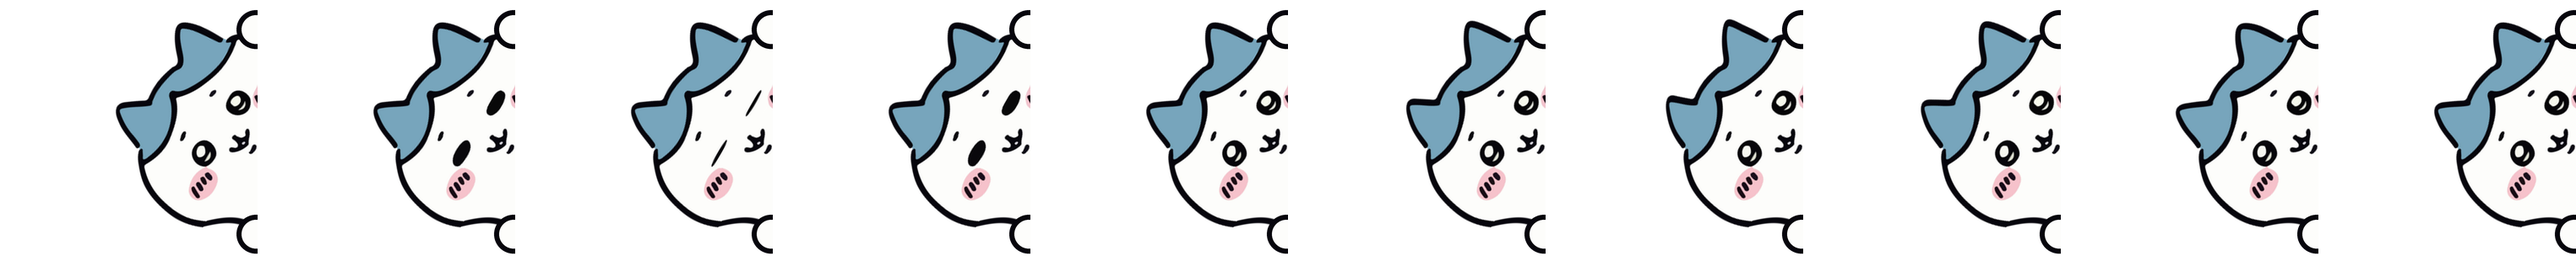
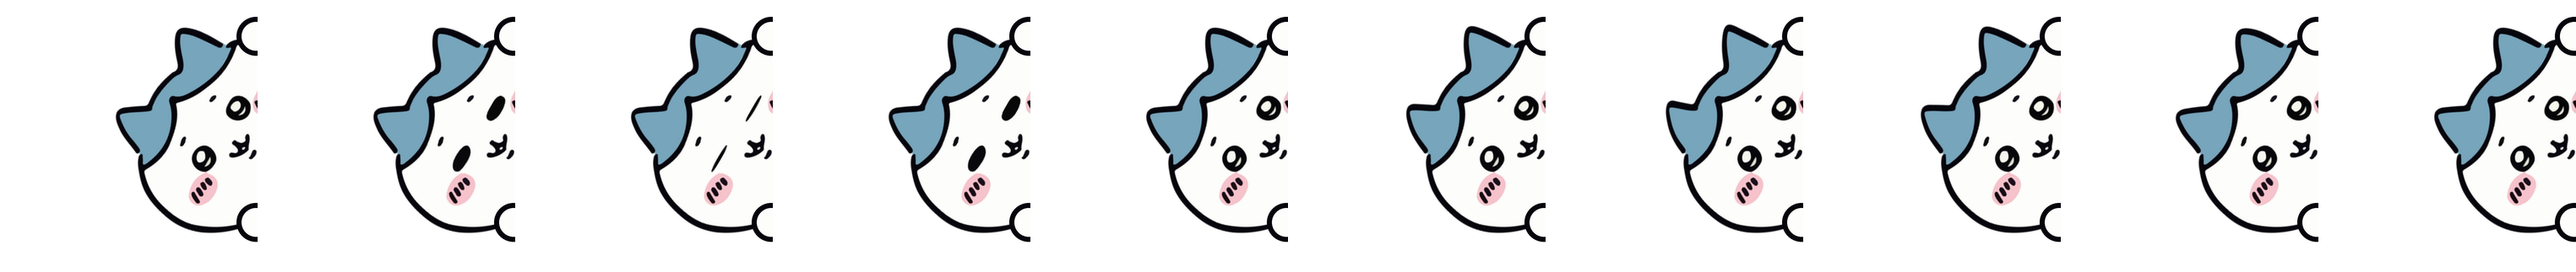
Draw the chin of Hachiware's hiding picture as the round head it is, and join a drawn stroke to the real outline without a corner
Claude-Session: https://claude.ai/code/session_01TnCzCTyCmno8xW8Zhxkbmu

diff --git a/scripts/peek_art.py b/scripts/peek_art.py
@@ -64,7 +64,7 @@ def _hermite(y, y0, c0, s0, y1, c1, s1):
     return (2 * t**3 - 3 * t**2 + 1) * c0 + (t**3 - 2 * t**2 + t) * h * s0 + (-2 * t**3 + 3 * t**2) * c1 + (t**3 - t**2) * h * s1
 
 
-def bridge(img, rows, x_span, ink, fill, outside='left', keep_rows=3.0, window=5, bump=0.0):
+def bridge(img, rows, x_span, ink, fill, outside='left', keep_rows=3.0, window=5, bump=0.0, shape=None):
     """
     Draws an outline that runs roughly up and down straight across the rows `rows` = (y0, y1) (pixels of the frame), where
     an arm or a foot interrupts it, and takes the arm off: in those rows, within the columns `x_span`, the picture is made
@@ -72,8 +72,14 @@ def bridge(img, rows, x_span, ink, fill, outside='left', keep_rows=3.0, window=5
     look (width, softness). `outside` is the side of the stroke that is empty ('left' or 'right'); the other side is
     the body, `fill` (a colour). `img` is a frame made SS times as big. Choose rows that start and end where the outline is
     clean: the arm and its hook are between them. `bump`: how far (in pixels of the frame) the middle of the new stroke is
-    drawn in towards the body, so that it dips between the two ends like the neck between a head and a body (the ends
-    stay where they are; 0 is straight, as the outline would be if nothing was between the rows).
+    drawn in towards the body (a negative number: out, away from it), as a smooth swell (the sine, squared) that is nothing
+    at both ends and has no slope there, so that the new stroke runs into the old one without a corner (0 is straight, as
+    the outline would be if nothing was between the rows). A swell that does have a slope at the ends (the plain sine) makes
+    a corner where the new stroke meets the old, which shows once the picture is turned. `shape`: another way to draw the
+    stroke than the curve between the two ends: a function that is given where the real stroke is at the two ends (the
+    row, the column and the direction at the first end, then the same at the second) and returns a function of the row
+    (in pixels of the frame) that gives the column of the middle of the new stroke. It has to start where the real stroke
+    does and with the same direction; where it ends only matters as far as it is in view.
     """
     arr = np.asarray(img).copy()
     ink = np.array(ink, dtype=np.float64)
@@ -85,6 +91,7 @@ def bridge(img, rows, x_span, ink, fill, outside='left', keep_rows=3.0, window=5
     w = int(window * SS)
     ya, ca, sa, pa = _edge(arr, range(r_a - n, r_a), x0, x1, ink, paper, w)
     yb, cb, sb, pb = _edge(arr, range(r_b, r_b + n), x0, x1, ink, paper, w)
+    curve = shape(ya, ca, sa, yb, cb, sb) if shape is not None else None
     xs = np.arange(arr.shape[1], dtype=np.float64) + 0.5
     offs = np.arange(-w, w + 1, dtype=np.float64)
     cols = np.zeros(arr.shape[1], bool)
@@ -93,9 +100,12 @@ def bridge(img, rows, x_span, ink, fill, outside='left', keep_rows=3.0, window=5
         y = (r + 0.5) / SS
         t = min(1.0, max(0.0, (y - ya) / (yb - ya)))
         prof = (1 - t) * pa + t * pb
-        centre = _hermite(y, ya, ca, sa, yb, cb, sb) * SS
-        # drawn in towards the body (to the right when the outside is on the left), most in the middle
-        centre += (1 if outside == 'left' else -1) * bump * SS * math.sin(math.pi * t)
+        if curve is not None:
+            centre = curve(y) * SS
+        else:
+            centre = _hermite(y, ya, ca, sa, yb, cb, sb) * SS
+            # drawn in towards the body (to the right when the outside is on the left), most in the middle, and not at all at the ends
+            centre += (1 if outside == 'left' else -1) * bump * SS * math.sin(math.pi * t) ** 2
         cov = np.interp(xs - centre, offs, prof, left=0, right=0)
         row = np.zeros((arr.shape[1], 4), dtype=np.float64)
         out = xs < centre if outside == 'left' else xs >= centre
@@ -106,6 +116,29 @@ def bridge(img, rows, x_span, ink, fill, outside='left', keep_rows=3.0, window=5
         row[inn, 3] = 255
         arr[r][cols] = np.round(row[cols]).astype(np.uint8)
     return Image.fromarray(arr, 'RGBA')
+
+
+def head_arc(middle, half_width):
+    """
+    A `shape` for `bridge`: the lower outline of a round head, an ellipse that is `half_width` to each side of the column
+    `middle` and that has the real outline's place and direction at the first end (the second end is not looked at: it is
+    where the outline of the body goes on, and the head has none of that). The outline curves in under the cheek and comes
+    round to the bottom of the head, as a face does, instead of running straight on into the side of the body.
+    """
+
+    def make(ya, ca, sa, yb, cb, sb):
+        c = (middle - ca) / half_width  # how far out from the middle of the head the outline is there, in half widths
+        u = math.sqrt(max(1e-9, 1 - c * c))  # how far down from the widest row of the head, in half heights
+        height = half_width * u / (c * sa)  # the direction there says how high the head is
+        widest = ya - u * height  # the row where the head is widest
+
+        def curve(y):
+            v = min(1.0, (y - widest) / height)
+            return middle - half_width * math.sqrt(max(0.0, 1 - v * v))
+
+        return curve
+
+    return make
 
 
 # --- hands ----------------------------------------------------------------------------------------------------------------

diff --git a/scripts/make-peek.py b/scripts/make-peek.py
@@ -77,11 +77,14 @@ def hachiware_prepare(img):
 
 
 def hachiware_peek_prepare(img):
-    # The same, for the picture that hides. Drawn dead straight, the stroke became (once the picture is turned) a long flat
-    # line under the face that looked nothing like a chin; `bump` draws its middle 10 px in towards the body, so that the head
-    # has a round jaw with a dip under it, as the head has over the body in the picture itself. (The picture that hangs over a
+    # The same, for the picture that hides, but the new stroke is not drawn across. In the picture itself the head is wider than the
+    # body and a neck runs in under it; once the picture is turned, a straight stroke there was a long flat line under the face,
+    # and a stroke with a dip in it was a bite taken out of the jaw. The head is round, so what is drawn there is the lower
+    # outline of the head as it would be if the body did not hide it: an ellipse that is as wide as the head (from x 31 to 269,
+    # round the middle of the face at x 150) and has the real outline's place and direction at the top of the rows. It
+    # curves in under the cheek and comes round to the chin as a face does, and rises to the wall. (The picture that hangs over a
     # window keeps the straight stroke: its cut is just under the mouth, and the hands sit on the outline as it is.)
-    return pa.bridge(img, rows=(205.0, 266.0), x_span=(28, 90), ink=HACHIWARE_INK, fill=HACHIWARE_BODY, outside='left', bump=10)
+    return pa.bridge(img, rows=(205.0, 266.0), x_span=(28, 90), ink=HACHIWARE_INK, fill=HACHIWARE_BODY, outside='left', shape=pa.head_arc(150, 119))
 
 
 # Chiikawa. The idle picture holds a lollipop (a swirl in front of the mouth and belly, held with the left arm), and neither
@@ -196,10 +199,10 @@ SKINS = {
         prepare=hachiware_prepare,
         peek_prepare=hachiware_peek_prepare,
         # face: the middle of the eyes (at (114, 162) and (186, 168)); wall_dx: the rightmost pixel of the mouth (the little
-        # dash under it included) is 40.8 to the right of the face, and the wall is 2 more; bottom: the row where the lower outline
-        # of the head meets the wall, the lower hand is 2 px under it; the outline comes to the wall at the top at row 38, and
-        # the upper hand is 3 px above that (as far from the outline as the lower one is)
-        peek=dict(face=(150, 165), tilt=60, wall_dx=43, bottom=277, hands=[(2, 35), (2, 278)], hand_r=17, hand_w=6),
+        # dash under it included) is 40.8 to the right of the face, and the wall is 2 more; bottom: the row of the lowest point of
+        # the chin, which is round and a little way from the wall; the outline comes to the wall at the bottom at row 262 and at
+        # the top at row 46, and the hands are on those, the lower 2 px under the outline and the upper 3 px above it
+        peek=dict(face=(150, 165), tilt=60, wall_dx=43, bottom=277, hands=[(2, 43), (2, 264)], hand_r=17, hand_w=6),
         # cut: 16 px under the last row of the mouth (212); hands_dx: the head is 207 px wide at the cut (from x 47 to 254)
         hang=dict(cut=229, face_x=150, hands_dx=86, hand_r=17, hand_w=6),
     ),

diff --git a/docs/PLAN.md b/docs/PLAN.md
@@ -53,7 +53,7 @@
 - [x] **v0.5.0**: 친구 모드를 만들었다. 캐릭터를 최대 다섯 마리까지 함께 살게 하고, 만나면 서로 인사하고 답하게 했다. 트레이의 **친구들**과 스킨 대사의 `meet`, `reply`, `with`를 넣었다.
 - [x] **v0.6.0**: 열린 창 위에 앉기를 만들었다. Windows 전용 실험 기능이며 기본은 꺼 두었다. 창을 읽는 부분은 Windows CI에서 확인했고, 화면에서 앉는 모습은 실기기 확인 전이다. 친구 모드도 보완했다. 인사와 대답에서 이름을 빼고, 친구와 함께일 때 크기를 주인공에 맞췄다.
 - [x] **v0.7.0**: 세 번 클릭하면 나와 있는 캐릭터가 모두 벽에 숨는 놀이를 만들었다. 스킨 5종에 얼굴을 벽 반대쪽으로 60도 돌리고 작은 손 두 개로 벽을 잡은 `peek` 그림을 넣었고, `peek`와 `found` 대사를 넣었다. 열린 창 위에 앉기를 정식 기능으로 올리고(설정 이름은 `windows`, 기본 켜짐), 창 위에서 가끔 윗변에 매달리는 놀이(`hang` 그림 5종)와 펫을 끌어다 창 옆면에 놓으면 그 옆에 숨는 놀이를 더했다. 창을 따라가는 빠르기는 앉았거나 숨은 창만 0.033초마다 읽어서 높였다. 그림은 `scripts/make-peek.py`와 `scripts/peek_art.py`로 만든다.
-- [x] **v0.8.0**: 오래 안 놀아 주면 관심을 끄는 실험 기능을 만들었다(설정 `attention`, 기본 꺼짐, Windows 전용). 숨는 그림의 손 두 개를 얼굴 윤곽의 위와 아래에 걸치게 고치고(`scripts/peek_art.py`의 `bridge`, 하치와레는 `bump`로 턱을 둥글게 다듬었다), 치이카와의 대사를 19줄 늘렸다. 창 옆에 숨은 펫이 창을 최소화해도 놓지 않는다는 보고는 진짜 Windows 러너(진짜 창과 진짜 마우스, 배율 100%와 150%, 새로 설치한 사람의 설정)에서 재현하지 못했다. 그래서 펫이 창에 붙고 놓을 때마다 창의 종류와 함께 로그에 남기게 했고, 창이 오가고 펫을 창 옆에 놓는 무작위 시험(`tests/side-fuzz.test.ts`)을 더했다.
+- [x] **v0.8.0**: 오래 안 놀아 주면 관심을 끄는 실험 기능을 만들었다(설정 `attention`, 기본 꺼짐, Windows 전용). 숨는 그림의 손 두 개를 얼굴 윤곽의 위와 아래에 걸치게 고치고(`scripts/peek_art.py`의 `bridge`), 하치와레는 턱선을 몸통 옆선 대신 머리가 이루는 타원의 아랫선으로 다시 그려서 둥글게 했다(`head_arc`. 곧게 이은 선은 긴 직선이, 가운데를 들인 선은 턱을 베어 낸 모양이 되었다). 치이카와의 대사를 19줄 늘렸다. 창 옆에 숨은 펫이 창을 최소화해도 놓지 않는다는 보고는 진짜 Windows 러너(진짜 창과 진짜 마우스, 배율 100%와 150%, 새로 설치한 사람의 설정)에서 재현하지 못했다. 그래서 펫이 창에 붙고 놓을 때마다 창의 종류와 함께 로그에 남기게 했고, 창이 오가고 펫을 창 옆에 놓는 무작위 시험(`tests/side-fuzz.test.ts`)을 더했다.
 - [ ] **M3**: 전체화면 앱에서 숨기, 키우기(애정도, 간식, 성장), 알람을 만든다.
 
 ## Windows 실기기 확인 목록 (M1)

diff --git a/CHANGELOG.md b/CHANGELOG.md
@@ -7,7 +7,7 @@
 
 - 오래 안 놀아 주면 관심을 끕니다(실험 기능). 트레이 메뉴에서 '오래 안 놀아 주면 관심 끌기 (실험 기능)'를 켜면, 10분 넘게 아무도 건드리거나 부르지 않은 펫이 마우스 커서 곁으로 달려가 기다립니다. 마우스가 잠시 멈춰 있으면 커서를 붙잡고 끌고 가고, 마우스를 움직이면 바로 놓아 줍니다. 마우스 버튼을 누르는 중이거나 전체 화면 앱과 발표 중에는 하지 않습니다. 기본은 꺼져 있고 Windows에서만 보입니다.
 - 숨는 그림에서 두 손을 얼굴 양옆으로 벌렸습니다. 한곳에 모여 있던 손을 창 윗변에 매달릴 때처럼 얼굴 윤곽의 위와 아래에 걸치게 했습니다. 모든 캐릭터에 적용했습니다.
-- 하치와레의 숨는 그림에서 턱을 다듬었습니다. 어색하던 턱선을 둥글게 고쳤습니다.
+- 하치와레의 숨는 그림에서 턱을 둥글게 다시 그렸습니다. 턱선이 꺾여서 깎인 것처럼 보이던 것을 머리 모양대로 둥글게 이어지게 했습니다.
 - 치이카와의 대사가 늘었습니다. 겁이 많고 먹는 것을 좋아하는 모습이 드러나도록 클릭, 쓰다듬기, 앉기, 깨기, 충전기, 숨기 같은 때의 대사를 19개 더했습니다.
 
 ## 0.7.0
